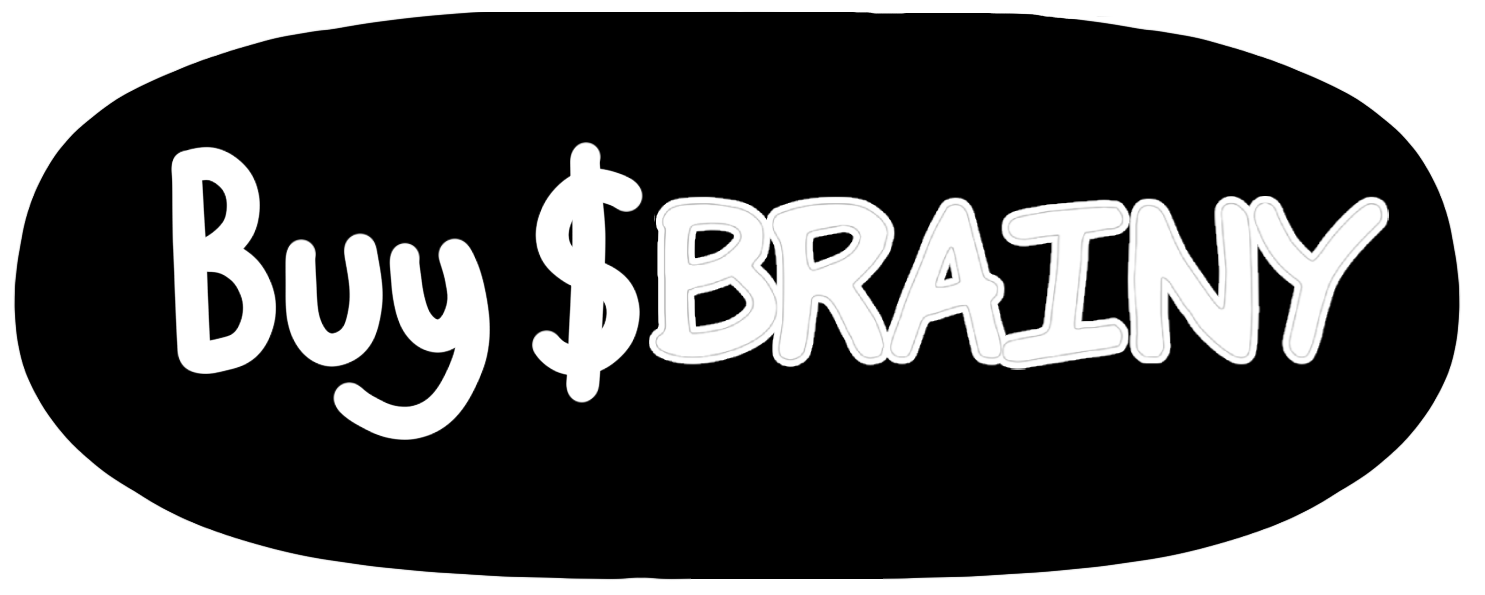
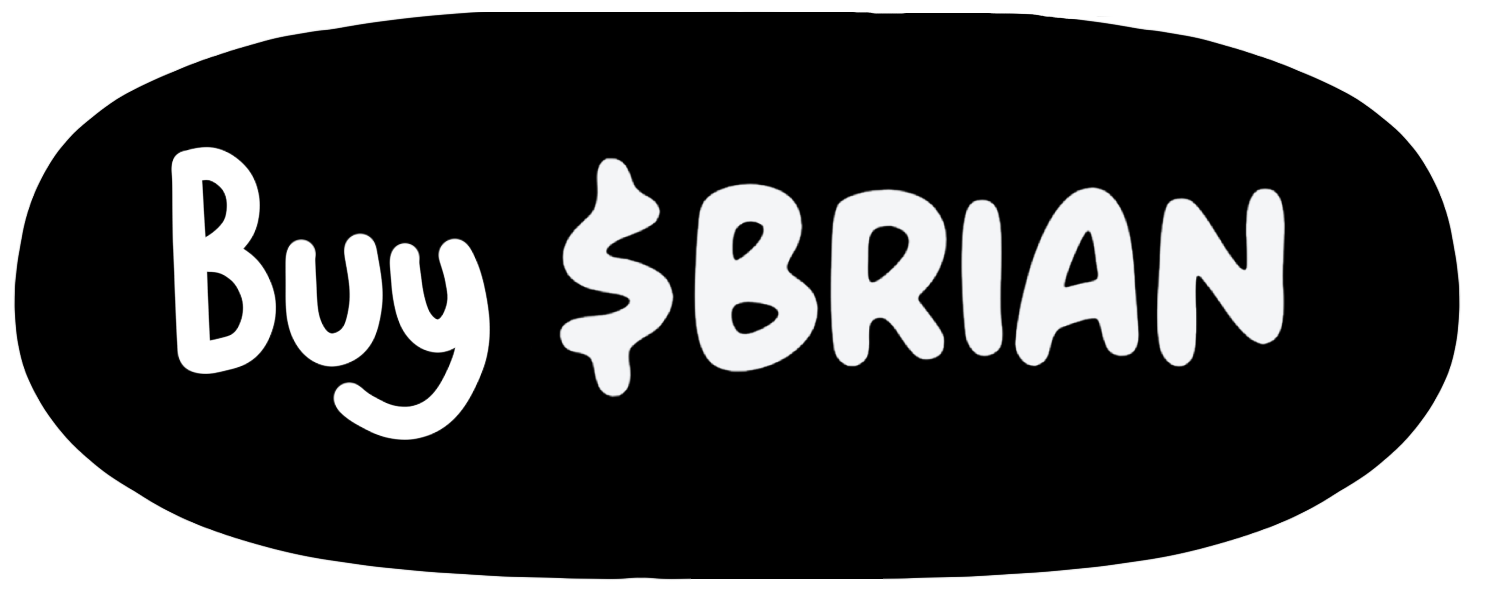
1

Changed region(s): [[0.3407, 0.242, 0.9603, 0.6958]]

diff --git a/index.html b/index.html
@@ -10,7 +10,7 @@
     <link rel="icon" href="./assets/logo1.png" type="image/png">
     <link rel="apple-touch-icon" href="./assets/logo1.png">
     <title>Brainy</title>
-    <meta name="description" content="BRAINY is a cheeky, sarcastic genius representing your inner thoughts on the Solana network." />
+    <meta name="description" content="BRIAN is a cheeky, sarcastic genius representing your inner thoughts on the Solana network." />
   
     <link rel="preconnect" href="https://fonts.googleapis.com">
     <link rel="preconnect" href="https://fonts.gstatic.com" crossorigin>
@@ -25,48 +25,48 @@
       <div class="ticker-wrapper">
         <div class="ticker">
             <div class="ticker-move">
-                <span class="text">Bkx2...<span style="color:#ff7bd3; font-weight: bold; text-transform: uppercase;">pump</span></span>
-                <span class="text">Bkx2...<span style="color:#ff7bd3; font-weight: bold; text-transform: uppercase;">pump</span></span>
-                <span class="text">Bkx2...<span style="color:#ff7bd3; font-weight: bold; text-transform: uppercase;">pump</span></span>
-                <span class="text">Bkx2...<span style="color:#ff7bd3; font-weight: bold; text-transform: uppercase;">pump</span></span>
-                <span class="text">Bkx2...<span style="color:#ff7bd3; font-weight: bold; text-transform: uppercase;">pump</span></span>
-                <span class="text">Bkx2...<span style="color:#ff7bd3; font-weight: bold; text-transform: uppercase;">pump</span></span>
-                <span class="text">Bkx2...<span style="color:#ff7bd3; font-weight: bold; text-transform: uppercase;">pump</span></span>
-                <span class="text">Bkx2...<span style="color:#ff7bd3; font-weight: bold; text-transform: uppercase;">pump</span></span>
-                <span class="text">Bkx2...<span style="color:#ff7bd3; font-weight: bold; text-transform: uppercase;">pump</span></span>
-                <span class="text">Bkx2...<span style="color:#ff7bd3; font-weight: bold; text-transform: uppercase;">pump</span></span>
-                <span class="text">Bkx2...<span style="color:#ff7bd3; font-weight: bold; text-transform: uppercase;">pump</span></span>
-                <span class="text">Bkx2...<span style="color:#ff7bd3; font-weight: bold; text-transform: uppercase;">pump</span></span>
-                <span class="text">Bkx2...<span style="color:#ff7bd3; font-weight: bold; text-transform: uppercase;">pump</span></span>
-                <span class="text">Bkx2...<span style="color:#ff7bd3; font-weight: bold; text-transform: uppercase;">pump</span></span>
-                <span class="text">Bkx2...<span style="color:#ff7bd3; font-weight: bold; text-transform: uppercase;">pump</span></span>
-                <span class="text">Bkx2...<span style="color:#ff7bd3; font-weight: bold; text-transform: uppercase;">pump</span></span>
-                <span class="text">Bkx2...<span style="color:#ff7bd3; font-weight: bold; text-transform: uppercase;">pump</span></span>
-                <span class="text">Bkx2...<span style="color:#ff7bd3; font-weight: bold; text-transform: uppercase;">pump</span></span>
-                <span class="text">Bkx2...<span style="color:#ff7bd3; font-weight: bold; text-transform: uppercase;">pump</span></span>
-                <span class="text">Bkx2...<span style="color:#ff7bd3; font-weight: bold; text-transform: uppercase;">pump</span></span>
+                <span class="text">cmEz...<span style="color:#ff7bd3; font-weight: bold; text-transform: uppercase;">Bump</span></span>
+                <span class="text">cmEz...<span style="color:#ff7bd3; font-weight: bold; text-transform: uppercase;">Bump</span></span>
+                <span class="text">cmEz...<span style="color:#ff7bd3; font-weight: bold; text-transform: uppercase;">Bump</span></span>
+                <span class="text">cmEz...<span style="color:#ff7bd3; font-weight: bold; text-transform: uppercase;">Bump</span></span>
+                <span class="text">cmEz...<span style="color:#ff7bd3; font-weight: bold; text-transform: uppercase;">Bump</span></span>
+                <span class="text">cmEz...<span style="color:#ff7bd3; font-weight: bold; text-transform: uppercase;">Bump</span></span>
+                <span class="text">cmEz...<span style="color:#ff7bd3; font-weight: bold; text-transform: uppercase;">Bump</span></span>
+                <span class="text">cmEz...<span style="color:#ff7bd3; font-weight: bold; text-transform: uppercase;">Bump</span></span>
+                <span class="text">cmEz...<span style="color:#ff7bd3; font-weight: bold; text-transform: uppercase;">Bump</span></span>
+                <span class="text">cmEz...<span style="color:#ff7bd3; font-weight: bold; text-transform: uppercase;">Bump</span></span>
+                <span class="text">cmEz...<span style="color:#ff7bd3; font-weight: bold; text-transform: uppercase;">Bump</span></span>
+                <span class="text">cmEz...<span style="color:#ff7bd3; font-weight: bold; text-transform: uppercase;">Bump</span></span>
+                <span class="text">cmEz...<span style="color:#ff7bd3; font-weight: bold; text-transform: uppercase;">Bump</span></span>
+                <span class="text">cmEz...<span style="color:#ff7bd3; font-weight: bold; text-transform: uppercase;">Bump</span></span>
+                <span class="text">cmEz...<span style="color:#ff7bd3; font-weight: bold; text-transform: uppercase;">Bump</span></span>
+                <span class="text">cmEz...<span style="color:#ff7bd3; font-weight: bold; text-transform: uppercase;">Bump</span></span>
+                <span class="text">cmEz...<span style="color:#ff7bd3; font-weight: bold; text-transform: uppercase;">Bump</span></span>
+                <span class="text">cmEz...<span style="color:#ff7bd3; font-weight: bold; text-transform: uppercase;">Bump</span></span>
+                <span class="text">cmEz...<span style="color:#ff7bd3; font-weight: bold; text-transform: uppercase;">Bump</span></span>
+                <span class="text">cmEz...<span style="color:#ff7bd3; font-weight: bold; text-transform: uppercase;">Bump</span></span>
             </div>
             <DIV class="ticker-move">
-                <span class="text">Bkx2...<span style="color:#ff7bd3; font-weight: bold; text-transform: uppercase;">pump</span></span>
-                <span class="text">Bkx2...<span style="color:#ff7bd3; font-weight: bold; text-transform: uppercase;">pump</span></span>
-                <span class="text">Bkx2...<span style="color:#ff7bd3; font-weight: bold; text-transform: uppercase;">pump</span></span>
-                <span class="text">Bkx2...<span style="color:#ff7bd3; font-weight: bold; text-transform: uppercase;">pump</span></span>
-                <span class="text">Bkx2...<span style="color:#ff7bd3; font-weight: bold; text-transform: uppercase;">pump</span></span>
-                <span class="text">Bkx2...<span style="color:#ff7bd3; font-weight: bold; text-transform: uppercase;">pump</span></span>
-                <span class="text">Bkx2...<span style="color:#ff7bd3; font-weight: bold; text-transform: uppercase;">pump</span></span>
-                <span class="text">Bkx2...<span style="color:#ff7bd3; font-weight: bold; text-transform: uppercase;">pump</span></span>
-                <span class="text">Bkx2...<span style="color:#ff7bd3; font-weight: bold; text-transform: uppercase;">pump</span></span>
-                <span class="text">Bkx2...<span style="color:#ff7bd3; font-weight: bold; text-transform: uppercase;">pump</span></span>
-                <span class="text">Bkx2...<span style="color:#ff7bd3; font-weight: bold; text-transform: uppercase;">pump</span></span>
-                <span class="text">Bkx2...<span style="color:#ff7bd3; font-weight: bold; text-transform: uppercase;">pump</span></span>
-                <span class="text">Bkx2...<span style="color:#ff7bd3; font-weight: bold; text-transform: uppercase;">pump</span></span>
-                <span class="text">Bkx2...<span style="color:#ff7bd3; font-weight: bold; text-transform: uppercase;">pump</span></span>
-                <span class="text">Bkx2...<span style="color:#ff7bd3; font-weight: bold; text-transform: uppercase;">pump</span></span>
-                <span class="text">Bkx2...<span style="color:#ff7bd3; font-weight: bold; text-transform: uppercase;">pump</span></span>
-                <span class="text">Bkx2...<span style="color:#ff7bd3; font-weight: bold; text-transform: uppercase;">pump</span></span>
-                <span class="text">Bkx2...<span style="color:#ff7bd3; font-weight: bold; text-transform: uppercase;">pump</span></span>
-                <span class="text">Bkx2...<span style="color:#ff7bd3; font-weight: bold; text-transform: uppercase;">pump</span></span>
-                <span class="text">Bkx2...<span style="color:#ff7bd3; font-weight: bold; text-transform: uppercase;">pump</span></span>
+                <span class="text">cmEz...<span style="color:#ff7bd3; font-weight: bold; text-transform: uppercase;">Bump</span></span>
+                <span class="text">cmEz...<span style="color:#ff7bd3; font-weight: bold; text-transform: uppercase;">Bump</span></span>
+                <span class="text">cmEz...<span style="color:#ff7bd3; font-weight: bold; text-transform: uppercase;">Bump</span></span>
+                <span class="text">cmEz...<span style="color:#ff7bd3; font-weight: bold; text-transform: uppercase;">Bump</span></span>
+                <span class="text">cmEz...<span style="color:#ff7bd3; font-weight: bold; text-transform: uppercase;">Bump</span></span>
+                <span class="text">cmEz...<span style="color:#ff7bd3; font-weight: bold; text-transform: uppercase;">Bump</span></span>
+                <span class="text">cmEz...<span style="color:#ff7bd3; font-weight: bold; text-transform: uppercase;">Bump</span></span>
+                <span class="text">cmEz...<span style="color:#ff7bd3; font-weight: bold; text-transform: uppercase;">Bump</span></span>
+                <span class="text">cmEz...<span style="color:#ff7bd3; font-weight: bold; text-transform: uppercase;">Bump</span></span>
+                <span class="text">cmEz...<span style="color:#ff7bd3; font-weight: bold; text-transform: uppercase;">Bump</span></span>
+                <span class="text">cmEz...<span style="color:#ff7bd3; font-weight: bold; text-transform: uppercase;">Bump</span></span>
+                <span class="text">cmEz...<span style="color:#ff7bd3; font-weight: bold; text-transform: uppercase;">Bump</span></span>
+                <span class="text">cmEz...<span style="color:#ff7bd3; font-weight: bold; text-transform: uppercase;">Bump</span></span>
+                <span class="text">cmEz...<span style="color:#ff7bd3; font-weight: bold; text-transform: uppercase;">Bump</span></span>
+                <span class="text">cmEz...<span style="color:#ff7bd3; font-weight: bold; text-transform: uppercase;">Bump</span></span>
+                <span class="text">cmEz...<span style="color:#ff7bd3; font-weight: bold; text-transform: uppercase;">Bump</span></span>
+                <span class="text">cmEz...<span style="color:#ff7bd3; font-weight: bold; text-transform: uppercase;">Bump</span></span>
+                <span class="text">cmEz...<span style="color:#ff7bd3; font-weight: bold; text-transform: uppercase;">Bump</span></span>
+                <span class="text">cmEz...<span style="color:#ff7bd3; font-weight: bold; text-transform: uppercase;">Bump</span></span>
+                <span class="text">cmEz...<span style="color:#ff7bd3; font-weight: bold; text-transform: uppercase;">Bump</span></span>
             </div>
         </div>
       </div>
@@ -91,22 +91,22 @@
       <div class="social-links-and-ca-wrapper">
         <div class="social-links-wrapper">
 
-          <a class="social-link"  href="https://x.com/brainywtf" target="_blank">
+          <a class="social-link"  href="https://x.com/briancoinmeme" target="_blank">
             <img class="social-img" src="./assets/social/x.svg"/>
           </a>
 
-          <a class="social-link"  href="https://t.me/brainywtf" target="_blank">
+          <a class="social-link"  href="https://t.me/briancoinmeme" target="_blank">
             <img class="social-img" src="./assets/social/telegram.svg"/>
           </a>
           <a class="social-link"  href="#" target="_blank">
             <img class="social-img" src="./assets/DEXTools Isotype_black (alternative color).png"/>
           </a>
-            <a class="social-link"  href="https://pump.fun/Bkx2w3Uk1jLFYVb49Aw5AYJ3LcwGEW9QH52QEqapump" target="_blank">
+            <a class="social-link"  href="https://pump.fun/cmEzNvcQbunJkTZecqhSL3DvyaZ863X8hPKAq4gBump" target="_blank">
             <img style="filter: brightness(0%);" class="social-img" src="./assets/pump.png"/>
           </a>
         </div>
         <div class="ca">
-          Bkx2w3Uk1jLFYVb49Aw5AYJ3LcwGEW9QH52QEqa<span style="color:#ff7bd3; font-weight: bold; text-transform: uppercase;">pump</span>
+          cmEzNvcQbunJkTZecqhSL3DvyaZ863X8hPKAq4g<span style="color:#ff7bd3; font-weight: bold; text-transform: uppercase;">Bump</span>
         </div>
       </div>
 
@@ -117,8 +117,8 @@
           <img class="brain-text-logo shaker" alt="brain-text-logo" src="./assets/brain_header.png" />
         </div>
 
-        <span class="brain-text fade-in-element">BRAINY is a cheeky, sarcastic genius representing your inner thoughts on the Solana network.</span>
-        <a href="https://pump.fun/Bkx2w3Uk1jLFYVb49Aw5AYJ3LcwGEW9QH52QEqapump" target="_blank" class="buy-brain-button"><img src="./assets/buy_brain_button.png" /></a>
+        <span class="brain-text fade-in-element">BRIAN is a cheeky, sarcastic genius representing your inner thoughts on the Solana network.</span>
+        <a href="https://pump.fun/cmEzNvcQbunJkTZecqhSL3DvyaZ863X8hPKAq4gBump" target="_blank" class="buy-brain-button"><img src="./assets/buy_brain_button.png" /></a>
       </div>
     </section>
     <section class="why-brain-wrapper">
@@ -126,10 +126,10 @@
         <div class="text-warpper">
           <img class="section-title why-brain-title fade-in-element" src="./assets/why_brain.png" />
           <br>
-            Dis smol BRAINY sez: "BUY NOW!"</br>
-            Dis big BRAINY sez: "MOON SOON!</br>
+            Dis smol BRIAN sez: "BUY NOW!"</br>
+            Dis big BRIAN sez: "MOON SOON!</br>
           </br>
-            Why $BRAINY Coin?</br>
+            Why $BRIAN Coin?</br>
           </br>
             MOON! We go zoom zoom 🚀</br>
             DIAMOND HANDS! No paper hands, no weak sauce 💎✋</br>
@@ -150,48 +150,48 @@
       <div class="ticker-wrapper dark">
         <div class="ticker">
             <div class="ticker-move">
-                <span class="text">$BRAINY</span>
-                <span class="text">$BRAINY</span>
-                <span class="text">$BRAINY</span>
-                <span class="text">$BRAINY</span>
-                <span class="text">$BRAINY</span>
-                <span class="text">$BRAINY</span>
-                <span class="text">$BRAINY</span>
-                <span class="text">$BRAINY</span>
-                <span class="text">$BRAINY</span>
-                <span class="text">$BRAINY</span>
-                <span class="text">$BRAINY</span>
-                <span class="text">$BRAINY</span>
-                <span class="text">$BRAINY</span>
-                <span class="text">$BRAINY</span>
-                <span class="text">$BRAINY</span>
-                <span class="text">$BRAINY</span>
-                <span class="text">$BRAINY</span>
-                <span class="text">$BRAINY</span>
-                <span class="text">$BRAINY</span>
-                <span class="text">$BRAINY</span>
+                <span class="text">$BRIAN</span>
+                <span class="text">$BRIAN</span>
+                <span class="text">$BRIAN</span>
+                <span class="text">$BRIAN</span>
+                <span class="text">$BRIAN</span>
+                <span class="text">$BRIAN</span>
+                <span class="text">$BRIAN</span>
+                <span class="text">$BRIAN</span>
+                <span class="text">$BRIAN</span>
+                <span class="text">$BRIAN</span>
+                <span class="text">$BRIAN</span>
+                <span class="text">$BRIAN</span>
+                <span class="text">$BRIAN</span>
+                <span class="text">$BRIAN</span>
+                <span class="text">$BRIAN</span>
+                <span class="text">$BRIAN</span>
+                <span class="text">$BRIAN</span>
+                <span class="text">$BRIAN</span>
+                <span class="text">$BRIAN</span>
+                <span class="text">$BRIAN</span>
             </div>
             <div class="ticker-move">
-                <span class="text">$BRAINY</span>
-                <span class="text">$BRAINY</span>
-                <span class="text">$BRAINY</span>
-                <span class="text">$BRAINY</span>
-                <span class="text">$BRAINY</span>
-                <span class="text">$BRAINY</span>
-                <span class="text">$BRAINY</span>
-                <span class="text">$BRAINY</span>
-                <span class="text">$BRAINY</span>
-                <span class="text">$BRAINY</span>
-                <span class="text">$BRAINY</span>
-                <span class="text">$BRAINY</span>
-                <span class="text">$BRAINY</span>
-                <span class="text">$BRAINY</span>
-                <span class="text">$BRAINY</span>
-                <span class="text">$BRAINY</span>
-                <span class="text">$BRAINY</span>
-                <span class="text">$BRAINY</span>
-                <span class="text">$BRAINY</span>
-                <span class="text">$BRAINY</span>
+                <span class="text">$BRIAN</span>
+                <span class="text">$BRIAN</span>
+                <span class="text">$BRIAN</span>
+                <span class="text">$BRIAN</span>
+                <span class="text">$BRIAN</span>
+                <span class="text">$BRIAN</span>
+                <span class="text">$BRIAN</span>
+                <span class="text">$BRIAN</span>
+                <span class="text">$BRIAN</span>
+                <span class="text">$BRIAN</span>
+                <span class="text">$BRIAN</span>
+                <span class="text">$BRIAN</span>
+                <span class="text">$BRIAN</span>
+                <span class="text">$BRIAN</span>
+                <span class="text">$BRIAN</span>
+                <span class="text">$BRIAN</span>
+                <span class="text">$BRIAN</span>
+                <span class="text">$BRIAN</span>
+                <span class="text">$BRIAN</span>
+                <span class="text">$BRIAN</span>
             </div>
         </div>
       </div>
@@ -232,13 +232,13 @@
 
         <div class="step">
           <div class="step-title-and-text">
-            <h3>3. SWAP $SOL FOR $BRAINY</h3>
-            <p>Click on the button below, connect your wallet, and press SWAP! BOOM! <strong>You are a $BRAINY holder!</strong></p>
+            <h3>3. SWAP $SOL FOR $BRIAN</h3>
+            <p>Click on the button below, connect your wallet, and press SWAP! BOOM! <strong>You are a $BRIAN holder!</strong></p>
             <p></p>
-              <a href="https://pump.fun/Bkx2w3Uk1jLFYVb49Aw5AYJ3LcwGEW9QH52QEqapump" target="_blank" class="buy-brain-instep">Buy $BRAINY</a>
+              <a href="https://pump.fun/cmEzNvcQbunJkTZecqhSL3DvyaZ863X8hPKAq4gBump" target="_blank" class="buy-brain-instep">Buy $BRIAN</a>
           </div>
 
-          <img src="./assets/c.png" alt="Swap $SOL for $BRAINY">
+          <img src="./assets/c.png" alt="Swap $SOL for $BRIAN">
         </div>
     </div>
     </section>
@@ -248,11 +248,11 @@
 
       <div class="social-links-wrapper-bottom">
 
-        <a class="social-link" href="https://x.com/brainywtf" target="_blank">
+        <a class="social-link" href="https://x.com/briancoinmeme" target="_blank">
           <img class="social-img" src="./assets/social/x-w.svg"/>
         </a>
 
-        <a class="social-link" href="https://t.me/brainywtf" target="_blank">
+        <a class="social-link" href="https://t.me/briancoinmeme" target="_blank">
           <img class="social-img" src="./assets/social/telegram-w.svg"/>
         </a>
       </div>
@@ -268,7 +268,7 @@
     </section>
     <div class="footer">
       <span class="disclaimer">
-        Legal Disclaimer: $BRAINY is a meme coin with no value or financial return. $BRAINY is purely for entertainment. By purchasing $BRAINY, you acknowledge this disclaimer.
+        Legal Disclaimer: $BRIAN is a meme coin with no value or financial return. $BRIAN is purely for entertainment. By purchasing $BRIAN, you acknowledge this disclaimer.
       </span>
     </div>
     <script type="text/javascript" src="./script.js?v=1.0.1"></script>
